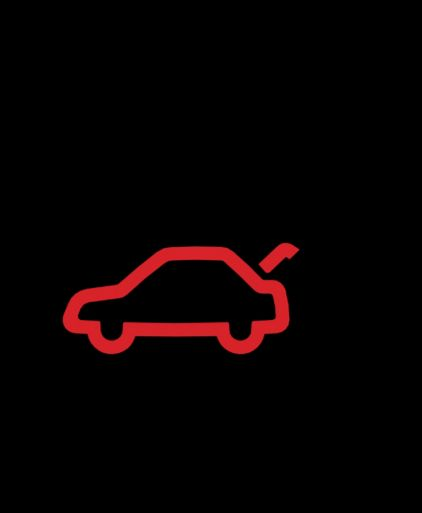
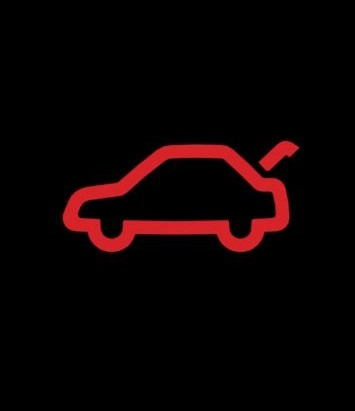
Actualización forzada

Changed region(s): [[0.1239, 0.3212, 0.8676, 0.7007]]

diff --git a/src/App.jsx b/src/App.jsx
@@ -22,6 +22,7 @@ export default function App() {
   const [indicadorMensaje, setIndicadorMensaje] = useState("Toca la pantalla mi amor ❤");
   const [isPlaying, setIsPlaying] = useState(false);
   const [showGiftModal, setShowGiftModal] = useState(false);
+  const [isOpeningGift, setIsOpeningGift] = useState(false);
 
   const canvasRef = useRef(null);
   const audioContextRef = useRef(null);
@@ -255,6 +256,26 @@ export default function App() {
     setIndicadorMensaje("Toca la pantalla mi amor ❤");
     setPhase('welcome');
     setShowGiftModal(false);
+  };
+
+  const handleOpenGift = (e) => {
+    e.stopPropagation();
+    if (isOpeningGift || showGiftModal) return;
+    setIsOpeningGift(true);
+
+    // Explosión de confeti dorado y rosa al abrir la caja de regalo
+    confetti({
+      particleCount: 60,
+      spread: 70,
+      origin: { y: 0.75 },
+      colors: ['#f5c665', '#ff5e84', '#ffffff']
+    });
+
+    // Pequeño retardo de 600ms para permitir que la animación CSS de apertura se reproduzca
+    setTimeout(() => {
+      setShowGiftModal(true);
+      setIsOpeningGift(false);
+    }, 600);
   };
 
   // ==========================================
@@ -582,15 +603,9 @@ export default function App() {
                   🎁 Tu regalo te espera 🎁
                 </span>
                 <button 
-                  className="gift-box-btn interactive-element"
-                  onClick={(e) => {
-                    e.stopPropagation();
-                    setShowGiftModal(true);
-                  }}
-                  onTouchStart={(e) => {
-                    e.stopPropagation();
-                    setShowGiftModal(true);
-                  }}
+                  className={`gift-box-btn interactive-element ${isOpeningGift ? 'opening' : ''}`}
+                  onClick={handleOpenGift}
+                  onTouchStart={handleOpenGift}
                 >
                   🎁
                 </button>
@@ -631,23 +646,23 @@ export default function App() {
       {/* GIFT DETAIL MODAL */}
       {showGiftModal && (
         <div className="photo-detail-modal">
-          <div className="photo-detail-content" style={{ maxWidth: '420px', gap: '1rem' }}>
-            <h2 className="welcome-title" style={{ fontSize: '1.5rem', margin: '0.5rem 0 0 0', color: '#f5c665' }}>
-              🎁 ¡Sorpresa! 🎁
-            </h2>
-            <img 
-              src={regaloImg} 
-              alt="Tu regalo" 
-              style={{ 
-                width: '100%', 
-                maxHeight: '55vh',
-                borderRadius: '12px', 
-                border: '3px solid #f5c665', 
-                aspectRatio: 'auto',
-                objectFit: 'contain',
-                boxShadow: '0 5px 25px rgba(245, 198, 101, 0.4)'
-              }}
-            />
+          <div className="photo-detail-content" style={{ maxWidth: '420px', gap: '1.2rem', padding: '1.8rem 1.5rem' }}>
+            <div style={{ display: 'flex', justifyContent: 'center', width: '100%' }}>
+              <img 
+                src={regaloImg} 
+                alt="Tu regalo" 
+                style={{ 
+                  width: '65%', 
+                  maxWidth: '240px',
+                  height: 'auto',
+                  borderRadius: '12px', 
+                  border: '3px solid #f5c665', 
+                  aspectRatio: 'auto',
+                  objectFit: 'contain',
+                  boxShadow: '0 5px 25px rgba(245, 198, 101, 0.35)'
+                }}
+              />
+            </div>
             <div style={{ display: 'flex', flexDirection: 'column', gap: '0.8rem', width: '100%', marginTop: '0.5rem' }}>
               <button 
                 className="btn-premium interactive-element" 

diff --git a/src/index.css b/src/index.css
@@ -658,3 +658,30 @@ body, html, #root {
   }
 }
 
+.gift-box-btn.opening {
+  animation: openGift 0.6s cubic-bezier(0.19, 1, 0.22, 1) forwards !important;
+  pointer-events: none;
+}
+
+@keyframes openGift {
+  0% {
+    transform: scale(1) rotate(0deg);
+    filter: drop-shadow(0 0 4px rgba(245, 198, 101, 0.3));
+    opacity: 1;
+  }
+  30% {
+    transform: scale(1.6) rotate(-15deg);
+    filter: drop-shadow(0 0 25px var(--accent-gold));
+  }
+  70% {
+    transform: scale(2.2) rotate(15deg);
+    opacity: 0.8;
+  }
+  100% {
+    transform: scale(3.5) rotate(0deg);
+    filter: drop-shadow(0 0 50px var(--accent-gold));
+    opacity: 0;
+  }
+}
+
+
